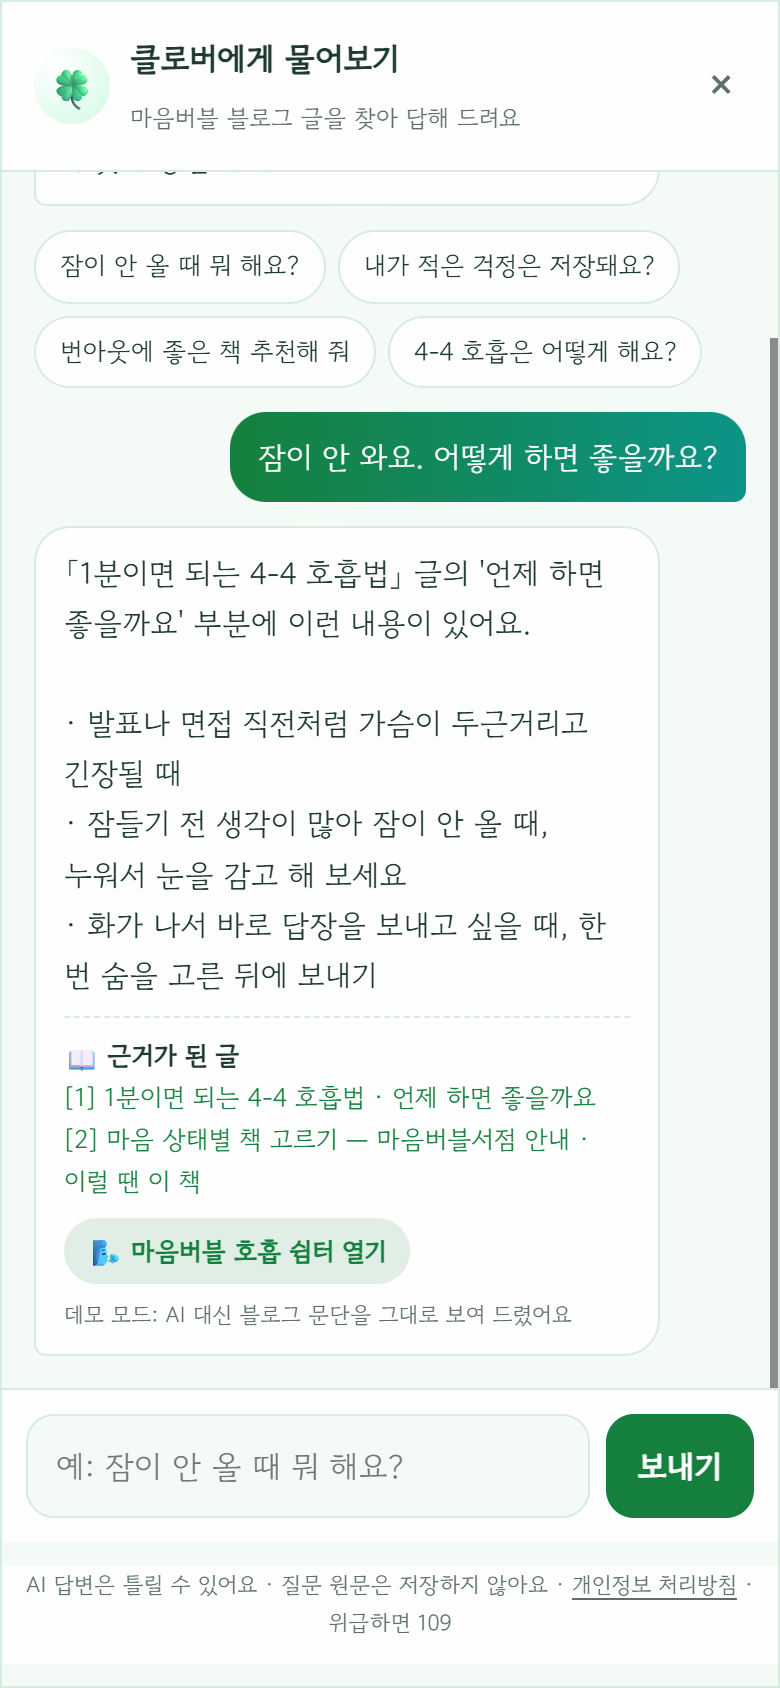
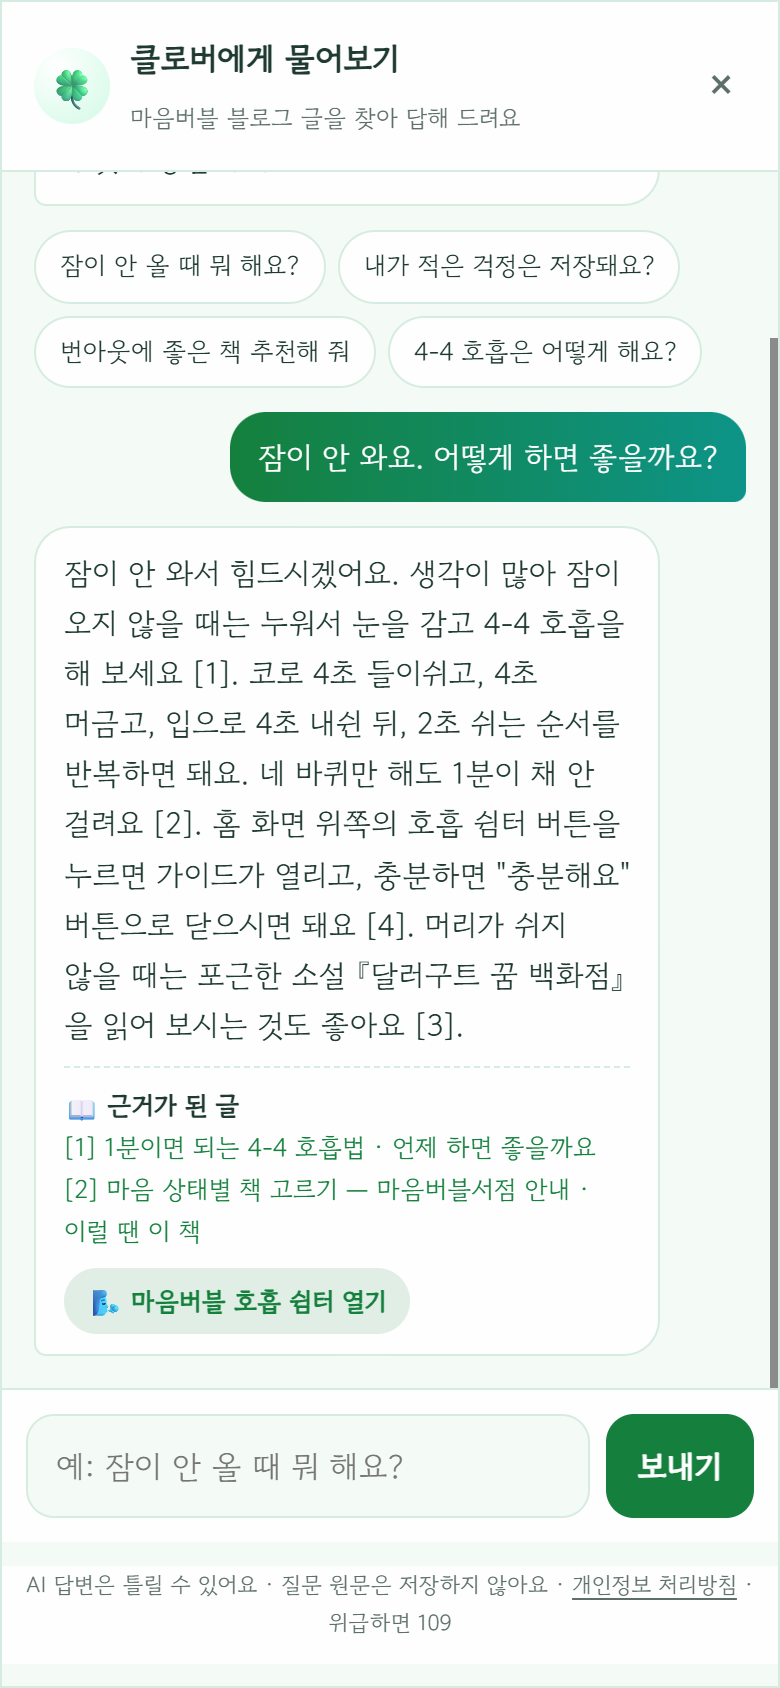
docs: 테스트 보고서 v1.2 — 배포 주소에서 Claude 실제 답변 검증, 체크리스트 배포 URL 완료
- 실제 AI 답변(근거 번호·출처, 4.6~5.1초), 타 도메인 차단, 화면 deploy-02 교체 (A4 2쪽 유지)

Changed region(s): [[0.0615, 0.3081, 0.8, 0.8009], [0.6462, 0.7701, 0.7077, 0.8009], [0.5846, 0.7701, 0.6154, 0.8009]]

diff --git a/docs/SUBMISSION_CHECKLIST.md b/docs/SUBMISSION_CHECKLIST.md
@@ -10,7 +10,7 @@
 
 | 구분 | 항목 | 충족 조건 (과제 안내문) | 확인 링크 또는 파일 | 완료 |
 |---|---|---|---|---|
-| 필수 | 배포 URL | 최종 배포된 블로그 링크(URL 형식), 독자용 챗봇이 배포 주소에서 동작 | 비공개 미리보기 링크(12-24 만료, 제출란에 기입) · 테스트 보고서 4장 | ⏳ (사이트·챗봇 동작 ✅, Gemini 403 대기) |
+| 필수 | 배포 URL | 최종 배포된 블로그 링크(URL 형식), 독자용 챗봇이 배포 주소에서 동작 | 비공개 미리보기 링크(12-24 만료, 제출란에 기입) · 테스트 보고서 4장 | ✅ (11-24 배포 주소에서 Claude 답변·모바일·보안 헤더 확인) |
 | 필수 | GitHub 링크 + 커밋 기록 | 저장소 1개, 중간 코드 커밋 과정이 기록되어 있을 것 | https://github.com/quiet-wings/PM-DH/commits/main | ✅ |
 | 필수 | PRD 기획서 | `.md`, 같은 저장소, **2쪽 이하**, 어떤 문제를 푸는지 명확히 정의, 버전별 관리 또는 커밋 메시지로 업데이트 과정 기록 | [`docs/PRD.md`](PRD.md) · 커밋 `docs: PRD v0.1`~`v1.5` · [`versions/PRD_new_v4.html`](../versions/PRD_new_v4.html) | ✅ (11-24 v1.5 A4 2쪽 확인) |
 | 필수 | 테스트 보고서 | `.md`, 같은 저장소, **2쪽 이하**, 전체 유저플로우 화면 스크린샷 + 기능별 단위테스트 포함 | [`docs/TEST_REPORT.md`](TEST_REPORT.md) · [`docs/screenshots/`](screenshots) | ✅ (11-24 v1.1, 배포 후 검증 포함, A4 2쪽) |
@@ -41,7 +41,7 @@
 | ① 독자가 답이 **어느 글에 있는지 모름** | 근거 기반 답변 + 출처 글 링크 | 출처 포함률 90%↑, 출처 붙은 답변 주 50건 | `search.test.js` 답 있는 질문 10개 상위 2위 이내, 화면 ④ |
 | ② 독자가 **이탈** (행동으로 이어지지 않음) | 마음버블 기능 링크, 글 하단 버튼 | 답변 → 기능 링크 클릭률 15%↑ | `clover.test.js` 기능 링크 포함, 화면 ②④ |
 | ③ 지친 독자의 **안전** | 위기·의료 대응 (AI 호출 전 규칙) | 위기 표현 안전 안내 100% | `safety.test.js` 13개, 화면 ⑥⑦ |
-| ④ 운영자의 **반복 응대** | 챗봇이 블로그 글로 대신 답변 | 출처 붙은 답변 수 주 50건 | 배포 URL에서 질문 20개 확인 (미완) |
+| ④ 운영자의 **반복 응대** | 챗봇이 블로그 글로 대신 답변 | 출처 붙은 답변 수 주 50건 | 배포 주소에서 질문 5종 실제 답변 확인 (테스트 보고서 4장) |
 | ⑤ 운영자가 **독자 궁금증을 모름** | 갭 로그(`content_gaps`) → 다음 글 주제 | 갭 질문 → 새 글 월 2편, 범위 밖 정직성 100% | `search.test.js` 범위 밖 5개, 화면 ⑤ |
 
 ## 4. 설계에 영향을 준 제약 (첫날 확인)
